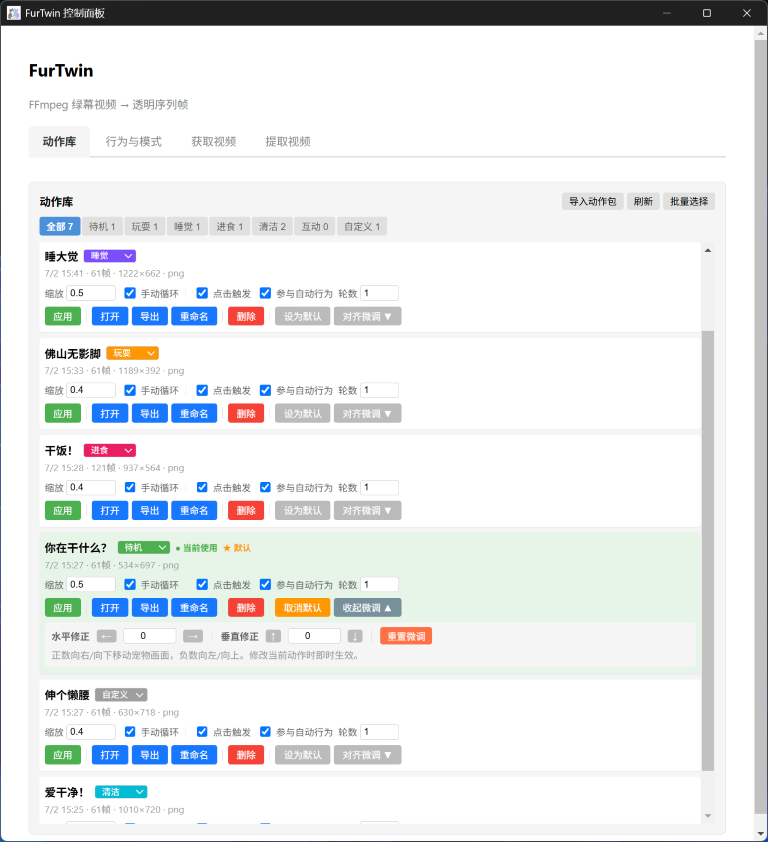
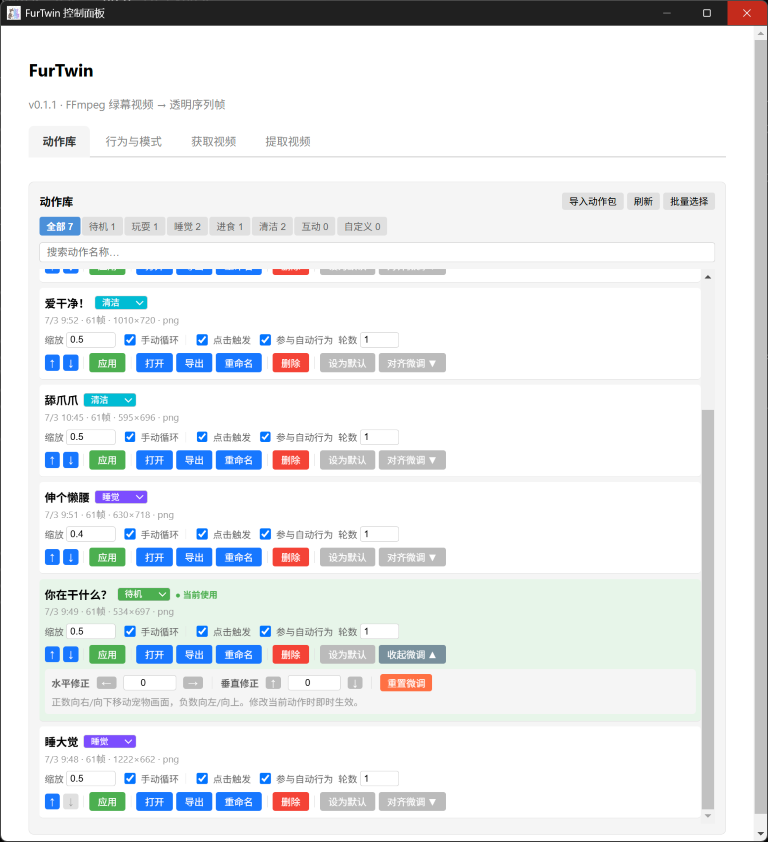
docs: 补充动作库搜索排序和版本号说明

diff --git a/docs/RELEASE_NOTES_DRAFT.md b/docs/RELEASE_NOTES_DRAFT.md
@@ -2,6 +2,47 @@
 
 ---
 
+## FurTwin v0.1.2 Release Notes 草稿
+
+### Release 标题
+
+```
+FurTwin v0.1.2 - 动作库搜索、排序与版本号显示
+```
+
+### 版本信息
+
+- **版本号**：v0.1.2
+- **类型**：体验优化版本
+- **分支**：dev
+
+### 新增功能
+
+**动作库搜索：**
+- 动作库新增名称搜索输入框，支持在当前类型 tab 内按名称快速筛选
+- 搜索兼容批量选择模式，「全选」只作用于当前可见结果
+
+**动作库手动排序：**
+- 在"全部"tab、搜索框为空、非批量选择模式下，显示上移/下移按钮
+- 排序结果自动持久保存，关闭重开后顺序保持
+- 新导入或新提取的动作默认追加到列表末尾
+- 删除动作时自动清理排序数据
+- 右键菜单动作列表跟随排序后顺序
+
+**版本号显示：**
+- 控制面板标题区域显示当前版本号
+- Tray 右键菜单底部显示版本号
+- Tray hover tooltip 显示版本号
+
+### 升级说明
+
+- v0.1.2 不涉及 userData 路径变更
+- 不涉及 FFmpeg 变更
+- 不涉及旧数据迁移
+- 用户可从 v0.1.1 直接升级
+
+---
+
 ## FurTwin v0.1.1 Release Notes 草稿
 
 ### Release 标题

diff --git a/USER_GUIDE.md b/USER_GUIDE.md
@@ -103,6 +103,9 @@ FurTwin 启动后会在系统托盘（任务栏右下角）显示图标。
 - **隐身模式** — 开启/关闭隐身模式
 - **恢复内置预览** — 使宠物恢复内置宠物动作
 - **退出FurTwin** — 退出程序
+- **FurTwin v0.x.x** — 显示当前版本号（不可点击）
+
+鼠标悬停在托盘图标上也会显示版本号。
 
 ![tray-menu](docs/images/user-guide/tray-menu.png)
 
@@ -110,7 +113,9 @@ FurTwin 启动后会在系统托盘（任务栏右下角）显示图标。
 
 ## 控制面板
 
-控制面板是管理宠物的核心界面，包含以下标签页：
+控制面板是管理宠物的核心界面。标题下方会显示当前版本号（如 `v0.1.2`），方便确认安装的版本。
+
+控制面板包含以下标签页：
 
 | Tab | 功能 |
 |-----|------|
@@ -190,6 +195,28 @@ FurTwin 启动后会在系统托盘（任务栏右下角）显示图标。
 - 隐藏控制面板后再次打开，会自动退出批量选择模式并清空选择，避免误操作
 
 ![batch-select](docs/images/user-guide/batch-select.png)
+
+### 名称搜索
+
+在类型 tab 下方有搜索输入框，可以按动作名称快速筛选。
+
+- 搜索在当前类型 tab 的结果内生效。例如在"全部"tab 搜索会在所有动作中匹配，在"清洁"tab 搜索只匹配清洁类型的动作。
+- 搜索不区分大小写。
+- 清空搜索框后恢复当前类型 tab 的完整列表。
+- 搜索兼容批量选择模式：搜索不会清空已选中的动作，「全选」只作用于当前可见的搜索结果。
+
+### 手动排序
+
+在"全部"tab、搜索框为空、非批量选择模式下，每个动作卡片会显示「↑」和「↓」排序按钮，可以手动调整动作的排列顺序。
+
+- 点击「↑」将动作上移一位，点击「↓」将动作下移一位。
+- 第一个动作不能上移，最后一个动作不能下移（按钮会显示为禁用状态）。
+- 排序结果会自动持久保存，关闭重开程序后顺序仍然保持。
+- 新导入或新提取的动作默认追加到列表末尾。
+- 删除动作不会影响其他动作的排序位置。
+- 右键菜单的动作列表也会跟随排序后的顺序。
+
+![manual-sort](docs/images/user-guide/manual-sort.png)
 
 ---
 

diff --git a/docs/POST_RELEASE_NOTES.md b/docs/POST_RELEASE_NOTES.md
@@ -40,6 +40,28 @@
 
 ## 5. P5 / v0.1.1 候选方向
 
+### P6A-1：动作库搜索与手动排序
+
+- **状态**：完成
+- **Commit**：`dev` 分支
+- **内容**：
+  - [x] 动作库名称搜索：在当前类型 tab 结果内按名称筛选，兼容批量选择模式
+  - [x] 手动排序：上移/下移按钮，仅在"全部"tab、搜索框为空、非批量选择模式下显示
+  - [x] 排序持久化：通过 `local.config.json` 的 `customActionOrder` 字段保存
+  - [x] 删除动作时自动清理排序项中的已删除 ID
+  - [x] 搜索与类型 tab / 批量选择兼容
+  - [x] 排序按钮 UI 收口：蓝底白箭头可用态，灰色禁用态
+
+### P6B-1：显示应用版本号
+
+- **状态**：完成
+- **Commit**：`dev` 分支
+- **内容**：
+  - [x] 控制面板标题区域显示版本号（来源：`app.getVersion()`）
+  - [x] Tray 右键菜单底部显示版本号（不可点击）
+  - [x] Tray hover tooltip 显示版本号
+  - [x] 新增 `GET_APP_VERSION` IPC 通道和 `getAppVersion()` preload API
+
 ### 文档与提示词优化
 
 - [x] 文档和控制面板提示词说明中补充：复制提示词到豆包网页端 / App 前，建议用户上传宠物正面全身照（P5C-1 完成）
@@ -105,3 +127,5 @@
 | 2026-07-02 | P5B-3：动作库批量导出功能 |
 | 2026-07-02 | P5D-1：修复关闭自动行为后停在最后一帧 |
 | 2026-07-02 | P5E-1：功能回归测试通过，dev 分支可作为 v0.1.1 候选稳定基础 |
+| 2026-07-03 | P6A-1：动作库搜索与手动排序完成 |
+| 2026-07-03 | P6B-1：显示应用版本号完成 |